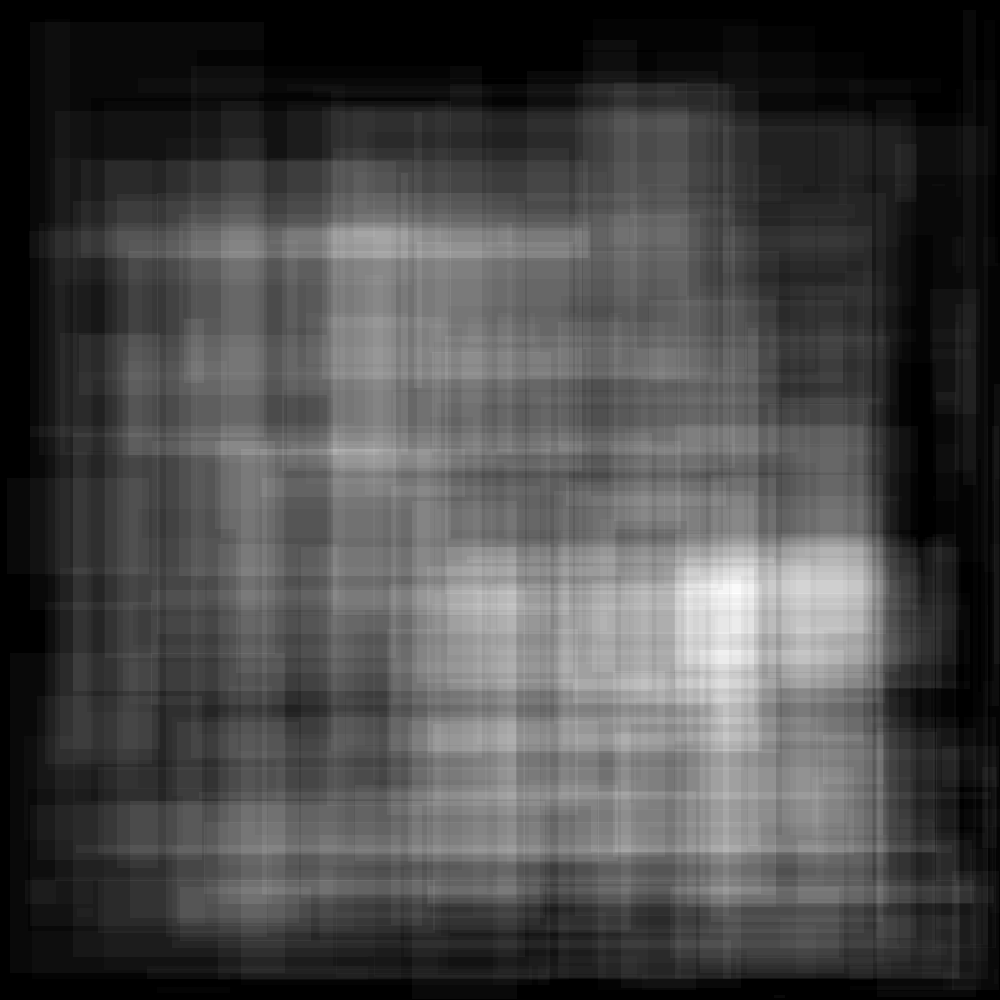
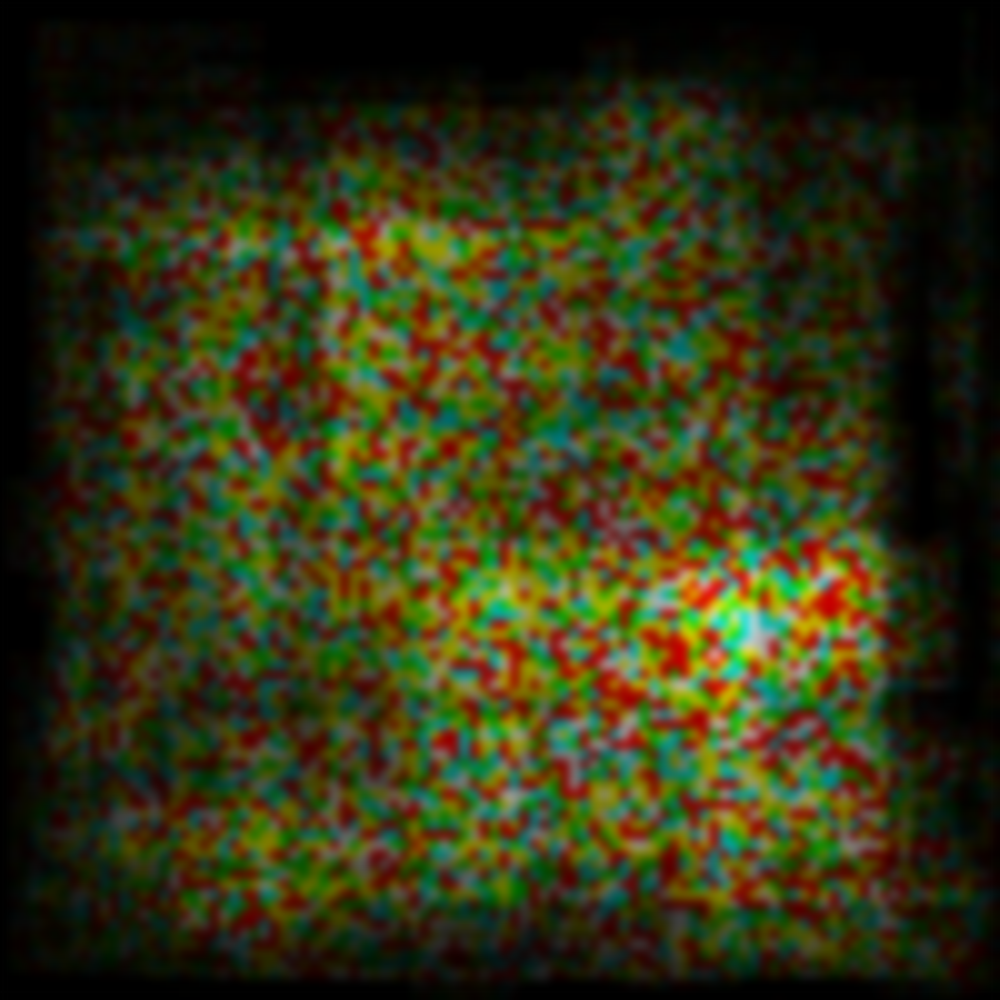
Render the Image as colored Christmas Lights

diff --git a/day-6/src/main.rs b/day-6/src/main.rs
@@ -1,8 +1,12 @@
 #[cfg(feature = "save")]
 extern crate image;
+#[cfg(feature = "save")]
+extern crate rand;
 
 #[cfg(feature = "save")]
 use image::RgbaImage;
+#[cfg(feature = "save")]
+use rand::distributions::{IndependentSample, Range};
 
 use std::path::Path;
 use std::fs::File;
@@ -129,14 +133,32 @@ impl DimmableLights {
     }
 
     #[cfg(feature = "save")]
-    fn write_to_image(&self, image: &mut RgbaImage) {
-        let max_brightness = self.lights.iter().fold(0, |a, &l| cmp::max(a, l));
+    fn write_to_image(&self) -> RgbaImage {
+        let mut image = RgbaImage::new(1000, 1000);
 
-        for it in image.enumerate_pixels_mut() {
-            let (x, y, pixel) = it;
-            let value = (0xFF * self.lights[(x + 1000 * y) as usize] / max_brightness) as u8;
-            pixel.data = [value, value, value, 0xFF];
+        let base_colors = [(255.0, 0.0, 0.0),
+                           (255.0, 0.0, 0.0),
+                           (0.0, 255.0, 0.0),
+                           (255.0, 255.0, 0.0),
+                           (255.0, 255.0, 0.0),
+                           (255.0, 255.0, 255.0),
+                           (0.0, 255.0, 255.0)];
+        let range = Range::new(0usize, base_colors.len());
+        let mut rng = rand::thread_rng();
+
+        let color_grid = (0..10000)
+                             .map(|_| base_colors[range.ind_sample(&mut rng)])
+                             .collect::<Vec<_>>();
+
+        let max_brightness = self.lights.iter().fold(0, |a, &l| cmp::max(a, l)) as f32;
+
+        for (x, y, pixel) in image.enumerate_pixels_mut() {
+            let value = self.lights[(x + 1000 * y) as usize] as f32 / max_brightness;
+            let (r, g, b) = color_grid[((x / 10) + 100 * (y / 10)) as usize];
+            pixel.data = [(value * r) as u8, (value * g) as u8, (value * b) as u8, 0xFF];
         }
+
+        image::imageops::blur(&image, 5.0)
     }
 }
 
@@ -158,8 +180,7 @@ fn save_lights(_: &DimmableLights) {}
 
 #[cfg(feature = "save")]
 fn save_lights(lights: &DimmableLights) {
-    let mut image = RgbaImage::new(1000, 1000);
-    lights.write_to_image(&mut image);
+    let image = lights.write_to_image();
     let _result = image.save("image.png");
 
     println!("Image saved");
